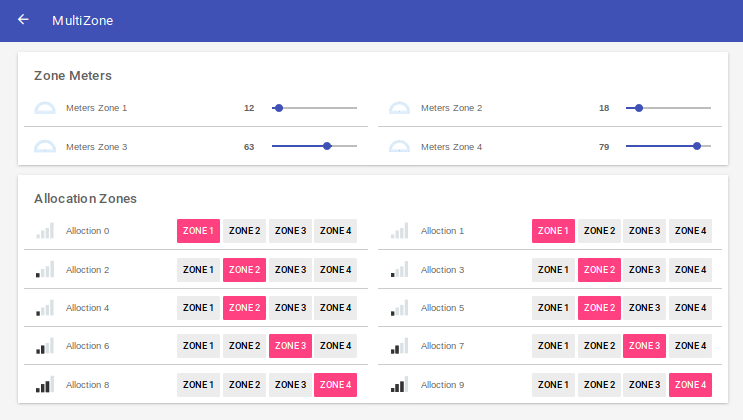
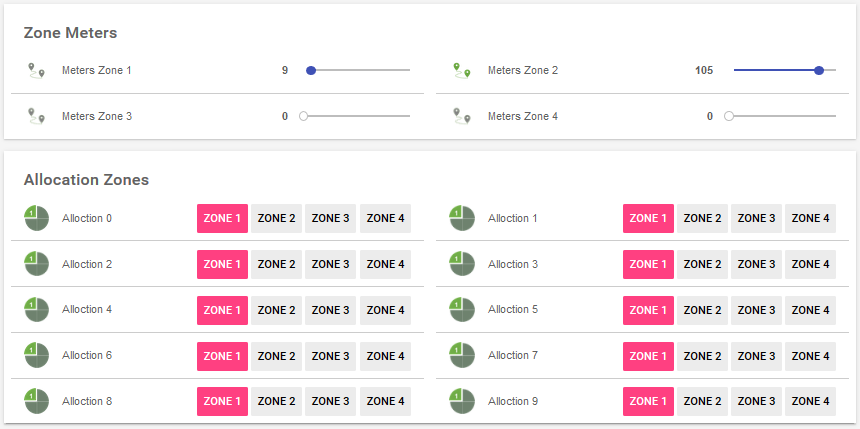
Graphical Update
- fixed broken link in TOC
- added Iconset
- copied files
- adopted Items/Sitemap

diff --git a/README.md b/README.md
@@ -4,15 +4,16 @@ This binding connects openHAB with your WorxLandroid Mower using the API and MQT
 
 # Table of contents
 
-1. [Disclaimer](https://github.com/nibi79/worxlandroid/tree/master#disclaimer)
-2. [Installation and upgrade](https://github.com/nibi79/worxlandroid/tree/master#installation-and-upgrade)
-3. [Supported Things](https://github.com/nibi79/worxlandroid/tree/master#supported-things)
-4. [Discovery](https://github.com/nibi79/worxlandroid/tree/master#discovery)
-5. [Properties](https://github.com/nibi79/worxlandroid/tree/master#properties)
-6. [Configuration](https://github.com/nibi79/worxlandroid/tree/master#configuration)
-7. [Channels](https://github.com/nibi79/worxlandroid/tree/master#channels)
-8. [File based configuration](https://github.com/nibi79/worxlandroid/tree/master#file-based-configuration)
-9. [Support](https://github.com/nibi79/worxlandroid/tree/master#support)
+ 1. [Disclaimer](https://github.com/nibi79/worxlandroid/tree/master#disclaimer)
+ 2. [Installation and upgrade](https://github.com/nibi79/worxlandroid/tree/master#installation-and-upgrade)
+ 3. [Supported Things](https://github.com/nibi79/worxlandroid/tree/master#supported-things)
+ 4. [Discovery](https://github.com/nibi79/worxlandroid/tree/master#discovery)
+ 5. [Binding Configuration](https://github.com/nibi79/worxlandroid/tree/master#binding-configuration)
+ 6. [Properties](https://github.com/nibi79/worxlandroid/tree/master#properties)
+ 7. [Channels](https://github.com/nibi79/worxlandroid/tree/master#channels)
+ 8. [File based configuration](https://github.com/nibi79/worxlandroid/tree/master#file-based-configuration)
+ 9. [Iconset](https://github.com/nibi79/worxlandroid/tree/master#iconset)
+10. [Support](https://github.com/nibi79/worxlandroid/tree/master#support)
 
 ***
 
@@ -245,9 +246,11 @@ Bridge worxlandroid:worxlandroidBridge:MyWorxBridge "MyWorx Bridge" [ webapiUser
 
 ### .items
 ```
+String Shaun							"Shaun [%s]"
+
 String          LandroidAction                          "Action []"                         <movecontrol>           {channel="worxlandroid:mower:MyWorxBridge:MySerialNumber:common#action"}
 String          LandroidLastUpdate                      "Last Update Data [%s]"             <calendar>              {channel="worxlandroid:mower:MyWorxBridge:MySerialNumber:cfgCommon#lastUpdate"}
-Switch          LandroidPoll                            "Poll []"                           <flowpipe>              {channel="worxlandroid:mower:MyWorxBridge:MySerialNumber:common#poll"}
+Switch          LandroidPoll                            "Poll []"                           <refresh>              {channel="worxlandroid:mower:MyWorxBridge:MySerialNumber:common#poll"}
 Switch          LandroidLock                            "Lock []"                           <lock>                  {channel="worxlandroid:mower:MyWorxBridge:MySerialNumber:common#lock"}
 
 //
@@ -328,140 +331,144 @@ Number          LandroidScheduleSundayDuration          "Duration [%d]"         
 Switch          LandroidScheduleSundayEdgecut           "Edgecut "                          <settings>              {channel="worxlandroid:mower:MyWorxBridge:MySerialNumber:datScSunday#scheduleEdgecut"}
 
 // Zone Meters
-Number          LandroidMeterZone1                      "Meters Zone 1 [%d]"                <incline>               {channel="worxlandroid:mower:MyWorxBridge:MySerialNumber:cfgMultiZones#zone1Meter"}
-Number          LandroidMeterZone2                      "Meters Zone 2 [%d]"                <incline>               {channel="worxlandroid:mower:MyWorxBridge:MySerialNumber:cfgMultiZones#zone2Meter"}
-Number          LandroidMeterZone3                      "Meters Zone 3 [%d]"                <incline>               {channel="worxlandroid:mower:MyWorxBridge:MySerialNumber:cfgMultiZones#zone3Meter"}
-Number          LandroidMeterZone4                      "Meters Zone 4 [%d]"                <incline>               {channel="worxlandroid:mower:MyWorxBridge:MySerialNumber:cfgMultiZones#zone4Meter"}
+Number          LandroidMeterZone1                      "Meters Zone 1 [%d]"                <distance>               {channel="worxlandroid:mower:MyWorxBridge:MySerialNumber:cfgMultiZones#zone1Meter"}
+Number          LandroidMeterZone2                      "Meters Zone 2 [%d]"                <distance>               {channel="worxlandroid:mower:MyWorxBridge:MySerialNumber:cfgMultiZones#zone2Meter"}
+Number          LandroidMeterZone3                      "Meters Zone 3 [%d]"                <distance>               {channel="worxlandroid:mower:MyWorxBridge:MySerialNumber:cfgMultiZones#zone3Meter"}
+Number          LandroidMeterZone4                      "Meters Zone 4 [%d]"                <distance>               {channel="worxlandroid:mower:MyWorxBridge:MySerialNumber:cfgMultiZones#zone4Meter"}
 
 // Allocation Zones
-Number          LandroidAllocation0                     "Alloction 0 []"                    <qualityofservice>      {channel="worxlandroid:mower:MyWorxBridge:MySerialNumber:cfgMultiZones#allocation0"}
-Number          LandroidAllocation1                     "Alloction 1 []"                    <qualityofservice>      {channel="worxlandroid:mower:MyWorxBridge:MySerialNumber:cfgMultiZones#allocation1"}
-Number          LandroidAllocation2                     "Alloction 2 []"                    <qualityofservice>      {channel="worxlandroid:mower:MyWorxBridge:MySerialNumber:cfgMultiZones#allocation2"}
-Number          LandroidAllocation3                     "Alloction 3 []"                    <qualityofservice>      {channel="worxlandroid:mower:MyWorxBridge:MySerialNumber:cfgMultiZones#allocation3"}
-Number          LandroidAllocation4                     "Alloction 4 []"                    <qualityofservice>      {channel="worxlandroid:mower:MyWorxBridge:MySerialNumber:cfgMultiZones#allocation4"}
-Number          LandroidAllocation5                     "Alloction 5 []"                    <qualityofservice>      {channel="worxlandroid:mower:MyWorxBridge:MySerialNumber:cfgMultiZones#allocation5"}
-Number          LandroidAllocation6                     "Alloction 6 []"                    <qualityofservice>      {channel="worxlandroid:mower:MyWorxBridge:MySerialNumber:cfgMultiZones#allocation6"}
-Number          LandroidAllocation7                     "Alloction 7 []"                    <qualityofservice>      {channel="worxlandroid:mower:MyWorxBridge:MySerialNumber:cfgMultiZones#allocation7"}
-Number          LandroidAllocation8                     "Alloction 8 []"                    <qualityofservice>      {channel="worxlandroid:mower:MyWorxBridge:MySerialNumber:cfgMultiZones#allocation8"}
-Number          LandroidAllocation9                     "Alloction 9 []"                    <qualityofservice>      {channel="worxlandroid:mower:MyWorxBridge:MySerialNumber:cfgMultiZones#allocation9"}
+Number          LandroidAllocation0                     "Alloction 0 []"                    <zones>      {channel="worxlandroid:mower:MyWorxBridge:MySerialNumber:cfgMultiZones#allocation0"}
+Number          LandroidAllocation1                     "Alloction 1 []"                    <zones>      {channel="worxlandroid:mower:MyWorxBridge:MySerialNumber:cfgMultiZones#allocation1"}
+Number          LandroidAllocation2                     "Alloction 2 []"                    <zones>      {channel="worxlandroid:mower:MyWorxBridge:MySerialNumber:cfgMultiZones#allocation2"}
+Number          LandroidAllocation3                     "Alloction 3 []"                    <zones>      {channel="worxlandroid:mower:MyWorxBridge:MySerialNumber:cfgMultiZones#allocation3"}
+Number          LandroidAllocation4                     "Alloction 4 []"                    <zones>      {channel="worxlandroid:mower:MyWorxBridge:MySerialNumber:cfgMultiZones#allocation4"}
+Number          LandroidAllocation5                     "Alloction 5 []"                    <zones>      {channel="worxlandroid:mower:MyWorxBridge:MySerialNumber:cfgMultiZones#allocation5"}
+Number          LandroidAllocation6                     "Alloction 6 []"                    <zones>      {channel="worxlandroid:mower:MyWorxBridge:MySerialNumber:cfgMultiZones#allocation6"}
+Number          LandroidAllocation7                     "Alloction 7 []"                    <zones>      {channel="worxlandroid:mower:MyWorxBridge:MySerialNumber:cfgMultiZones#allocation7"}
+Number          LandroidAllocation8                     "Alloction 8 []"                    <zones>      {channel="worxlandroid:mower:MyWorxBridge:MySerialNumber:cfgMultiZones#allocation8"}
+Number          LandroidAllocation9                     "Alloction 9 []"                    <zones>      {channel="worxlandroid:mower:MyWorxBridge:MySerialNumber:cfgMultiZones#allocation9"}
 ```
 
 ### .sitemap
 ```
 sitemap landroid label="Landroid"
 {
-    Frame {
-        Switch item=LandroidAction label="Action" mappings=[START="Start"] visibility=[LandroidStatusDescription=="Home"]
-        Switch item=LandroidAction label="Action" mappings=[START="Start",STOP="Stop",HOME="Home"] visibility=[LandroidStatusDescription!="Home"]
-        Text item=LandroidLastUpdate
-        Switch item=LandroidPoll label="Refresh" mappings=[ON="Poll"]
-        Switch item=LandroidLock label="Lock" mappings=[ON="LOCK",OFF="UNLOCK"]
-    }
-    Frame {
-        Text item=LandroidSerialNumber
-        Text item=LandroidFirmware
-        Text item=LandroidOnline //mappings=[OFF="Offline", ON="Online"]
-        Text item=LandroidLastUpdateOnlineStatus
-    }
-    Frame label="Status"{
-        Text item=LandroidWifiQuality
-        Text  item=LandroidBatteryCharging
-        Text item=LandroidStatusCode
-        Text item=LandroidStatusDescription
-        Text item=LandroidErrorCode
-        Text item=LandroidErrorDescription
-    }
-    Frame label="Battery"{
-        Text item=LandroidBatteryLevel
-        Text item=LandroidBatteryVoltage
-        Text item=LandroidBatteryTemperature
-        Text item=LandroidBatteryChargeCycle
-    }
-    Frame label="Settings" {
-        Setpoint item=LandroidScheduleTimeExtension minValue=-100 maxValue=100 step=10
-        Text label="Schedule" icon="time"{
-            Frame label="Schedule Monday" {
-                Setpoint item=LandroidScheduleMondayStartHour minValue=0 maxValue=23 step=1
-                Setpoint item=LandroidScheduleMondayStartMinutes minValue=0 maxValue=45 step=15
-                Setpoint item=LandroidScheduleMondayDuration minValue=15 maxValue=1425 step=15
-                Switch item=LandroidScheduleMondayEdgecut
-            }
-            Frame label="Schedule Tuesday" {
-                Setpoint item=LandroidScheduleTuesdayStartHour minValue=0 maxValue=23 step=1
-                Setpoint item=LandroidScheduleTuesdayStartMinutes minValue=0 maxValue=45 step=15
-                Setpoint item=LandroidScheduleTuesdayDuration minValue=15 maxValue=1425 step=15
-                Switch item=LandroidScheduleTuesdayEdgecut
-            }
-            Frame label="Schedule Wednesday" {
-                Setpoint item=LandroidScheduleWednesdayStartHour minValue=0 maxValue=23 step=1
-                Setpoint item=LandroidScheduleWednesdayStartMinutes minValue=0 maxValue=45 step=15
-                Setpoint item=LandroidScheduleWednesdayDuration minValue=15 maxValue=1425 step=15
-                Switch item=LandroidScheduleWednesdayEdgecut
-            }
-            Frame label="Schedule Thursday" {
-                Setpoint item=LandroidScheduleThursdayStartHour minValue=0 maxValue=23 step=1
-                Setpoint item=LandroidScheduleThursdayStartMinutes minValue=0 maxValue=45 step=15
-                Setpoint item=LandroidScheduleThursdayDuration minValue=15 maxValue=1425 step=15
-                Switch item=LandroidScheduleThursdayEdgecut
-            }
-            Frame label="Schedule Friday" {
-                Setpoint item=LandroidScheduleFridayStartHour minValue=0 maxValue=23 step=1
-                Setpoint item=LandroidScheduleFridayStartMinutes minValue=0 maxValue=45 step=15
-                Setpoint item=LandroidScheduleFridayDuration minValue=15 maxValue=1425 step=15
-                Switch item=LandroidScheduleFridayEdgecut
-            }
-            Frame label="Schedule Saturday" {
-                Setpoint item=LandroidScheduleSaturdayStartHour minValue=0 maxValue=23 step=1
-                Setpoint item=LandroidScheduleSaturdayStartMinutes minValue=0 maxValue=45 step=15
-                Setpoint item=LandroidScheduleSaturdayDuration minValue=15 maxValue=1425 step=15
-                Switch item=LandroidScheduleSaturdayEdgecut
-            }
-            Frame label="Schedule Sunday" {
-                Setpoint item=LandroidScheduleSundayStartHour minValue=0 maxValue=23 step=1
-                Setpoint item=LandroidScheduleSundayStartMinutes minValue=0 maxValue=45 step=15
-                Setpoint item=LandroidScheduleSundayDuration minValue=15 maxValue=1425 step=15
-                Switch item=LandroidScheduleSundayEdgecut
-            }
+	Group item=Shaun icon="wr102si" {
+        Frame {
+			Switch item=LandroidAction label="Action" mappings=[START="Start"] visibility=[LandroidStatusCode==1]
+			Switch item=LandroidAction label="Action" mappings=[STOP="Stop",HOME="Home"] visibility=[LandroidStatusCode==7]
+			Switch item=LandroidAction label="Action" mappings=[STOP="Stop",HOME="Home"] visibility=[LandroidStatusCode==33]
+			Switch item=LandroidAction label="Action" mappings=[START="Start",HOME="Home"] visibility=[LandroidStatusCode==34]
+			Switch item=LandroidPoll label="Refresh" mappings=[ON="Poll"]
+            Text item=LandroidLastUpdate
+            Switch item=LandroidLock label="Lock" mappings=[ON="LOCK",OFF="UNLOCK"]
         }
-        Text label="MultiZone" icon="pie"{
-            Frame label="Zone Meters" {
-                Slider item=LandroidMeterZone1 minValue=0 maxValue=150
-                Slider item=LandroidMeterZone2 minValue=0 maxValue=150
-                Slider item=LandroidMeterZone3 minValue=0 maxValue=150
-                Slider item=LandroidMeterZone4 minValue=0 maxValue=150
-            }
-            Frame label="Allocation Zones" {
-                Switch item=LandroidAllocation0 mappings=[0="Zone 1", 1="Zone 2", 2="Zone 3", 3="Zone 4"]
-                Switch item=LandroidAllocation1 mappings=[0="Zone 1", 1="Zone 2", 2="Zone 3", 3="Zone 4"]
-                Switch item=LandroidAllocation2 mappings=[0="Zone 1", 1="Zone 2", 2="Zone 3", 3="Zone 4"]
-                Switch item=LandroidAllocation3 mappings=[0="Zone 1", 1="Zone 2", 2="Zone 3", 3="Zone 4"]
-                Switch item=LandroidAllocation4 mappings=[0="Zone 1", 1="Zone 2", 2="Zone 3", 3="Zone 4"]
-                Switch item=LandroidAllocation5 mappings=[0="Zone 1", 1="Zone 2", 2="Zone 3", 3="Zone 4"]
-                Switch item=LandroidAllocation6 mappings=[0="Zone 1", 1="Zone 2", 2="Zone 3", 3="Zone 4"]
-                Switch item=LandroidAllocation7 mappings=[0="Zone 1", 1="Zone 2", 2="Zone 3", 3="Zone 4"]
-                Switch item=LandroidAllocation8 mappings=[0="Zone 1", 1="Zone 2", 2="Zone 3", 3="Zone 4"]
-                Switch item=LandroidAllocation9 mappings=[0="Zone 1", 1="Zone 2", 2="Zone 3", 3="Zone 4"]
-            }
+        Frame {
+            Text item=LandroidSerialNumber
+            Text item=LandroidFirmware
+            Text item=LandroidOnline //mappings=[OFF="Offline", ON="Online"]
+            Text item=LandroidLastUpdateOnlineStatus
         }
-        Setpoint item=LandroidRainDelay minValue=0 maxValue=750 step=30
-    }
-    Frame label="Statistic" {
-        Text item=LandroidTotalTime
-        Text item=LandroidTotalDistance label="Total Distance [%.2f km]"
-        Text item=LandroidTotalBladeTime
-    }
-    Frame label="Orientation" {
-        Text item=LandroidPitch
-        Text item=LandroidRoll
-        Text item=LandroidYaw
+        Frame label="Status"{
+            Text item=LandroidWifiQuality
+            Text  item=LandroidBatteryCharging
+            Text item=LandroidStatusCode
+            Text item=LandroidStatusDescription
+            Text item=LandroidErrorCode
+            Text item=LandroidErrorDescription
+        }
+        Frame label="Battery"{
+            Text item=LandroidBatteryLevel
+            Text item=LandroidBatteryVoltage
+            Text item=LandroidBatteryTemperature
+            Text item=LandroidBatteryChargeCycle
+        }
+        Frame label="Settings" {
+            Slider item=LandroidScheduleTimeExtension minValue=-100 maxValue=100 step=10
+            Text label="Schedule" icon="time"{
+                Frame label="Schedule Monday" {
+                    Setpoint item=LandroidScheduleMondayStartHour minValue=0 maxValue=23 step=1
+                    Setpoint item=LandroidScheduleMondayStartMinutes minValue=0 maxValue=45 step=15
+                    Setpoint item=LandroidScheduleMondayDuration minValue=15 maxValue=1425 step=15
+                    Switch item=LandroidScheduleMondayEdgecut
+                }
+                Frame label="Schedule Tuesday" {
+                    Setpoint item=LandroidScheduleTuesdayStartHour minValue=0 maxValue=23 step=1
+                    Setpoint item=LandroidScheduleTuesdayStartMinutes minValue=0 maxValue=45 step=15
+                    Setpoint item=LandroidScheduleTuesdayDuration minValue=15 maxValue=1425 step=15
+                    Switch item=LandroidScheduleTuesdayEdgecut
+                }
+                Frame label="Schedule Wednesday" {
+                    Setpoint item=LandroidScheduleWednesdayStartHour minValue=0 maxValue=23 step=1
+                    Setpoint item=LandroidScheduleWednesdayStartMinutes minValue=0 maxValue=45 step=15
+                    Setpoint item=LandroidScheduleWednesdayDuration minValue=15 maxValue=1425 step=15
+                    Switch item=LandroidScheduleWednesdayEdgecut
+                }
+                Frame label="Schedule Thursday" {
+                    Setpoint item=LandroidScheduleThursdayStartHour minValue=0 maxValue=23 step=1
+                    Setpoint item=LandroidScheduleThursdayStartMinutes minValue=0 maxValue=45 step=15
+                    Setpoint item=LandroidScheduleThursdayDuration minValue=15 maxValue=1425 step=15
+                    Switch item=LandroidScheduleThursdayEdgecut
+                }
+                Frame label="Schedule Friday" {
+                    Setpoint item=LandroidScheduleFridayStartHour minValue=0 maxValue=23 step=1
+                    Setpoint item=LandroidScheduleFridayStartMinutes minValue=0 maxValue=45 step=15
+                    Setpoint item=LandroidScheduleFridayDuration minValue=15 maxValue=1425 step=15
+                    Switch item=LandroidScheduleFridayEdgecut
+                }
+                Frame label="Schedule Saturday" {
+                    Setpoint item=LandroidScheduleSaturdayStartHour minValue=0 maxValue=23 step=1
+                    Setpoint item=LandroidScheduleSaturdayStartMinutes minValue=0 maxValue=45 step=15
+                    Setpoint item=LandroidScheduleSaturdayDuration minValue=15 maxValue=1425 step=15
+                    Switch item=LandroidScheduleSaturdayEdgecut
+                }
+                Frame label="Schedule Sunday" {
+                    Setpoint item=LandroidScheduleSundayStartHour minValue=0 maxValue=23 step=1
+                    Setpoint item=LandroidScheduleSundayStartMinutes minValue=0 maxValue=45 step=15
+                    Setpoint item=LandroidScheduleSundayDuration minValue=15 maxValue=1425 step=15
+                    Switch item=LandroidScheduleSundayEdgecut
+                }
+            }
+            Slider item=LandroidRainDelay minValue=0 maxValue=750 step=30
+        }
+        Frame label="Statistic" {
+            Text item=LandroidTotalTime
+            Text item=LandroidTotalDistance label="Total Distance [%.2f km]"
+            Text item=LandroidTotalBladeTime
+        }
     }
 }
 ```
 
 ### .rules
+
+Update Landroid Status to reflect in main menu
+
+<img src="images/SC_BasicUI_MainStatus.png" width="50%">
+<br><br>
 ```
-TODO
+rule MowerStatus
+when
+	Item LandroidErrorCode changed or 
+	Item LandroidStatusCode changed
+then
+	if (LandroidErrorCode.state != 0) {
+		Shaun.postUpdate(transform("MAP", "landroid_error_de.map", LandroidErrorCode.state.toString))
+	} else {
+		Shaun.postUpdate(transform("MAP", "landroid_status_de.map", LandroidStatusCode.state.toString))
+	}
+end
 ```
+
+## Iconset
+
+Several Icons have been created in order to suit requirements for robo-mower. Please feel free to download from this repository and place/extract them into ..\conf\icons\classic
+
+1. [Distance](https://github.com/nibi79/worxlandroid/images/distance.zip)
+2. [Zones](https://github.com/nibi79/worxlandroid/images/zones.zip)
+3. [REfresh](https://github.com/nibi79/worxlandroid/images/refresh.png)
+4. [wr102si](https://github.com/nibi79/worxlandroid/images/wr102si.png)
+
 
 ## Support
 
@@ -479,4 +486,3 @@ In any case please provide some information about your problem:
 - whether it's the binding, bridge, device or channel related issue
 
 For the sake of documentation please use English language.
-
